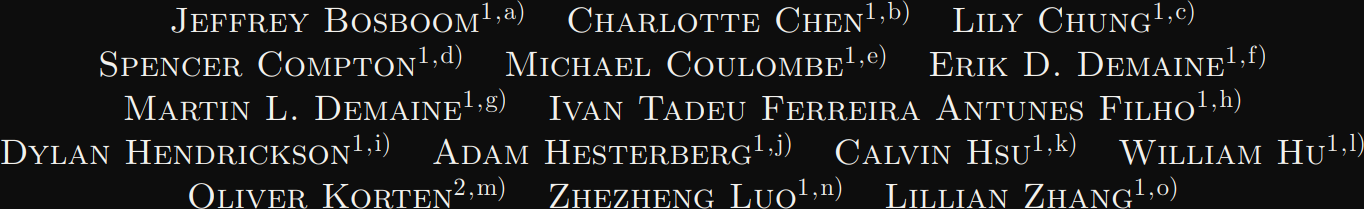
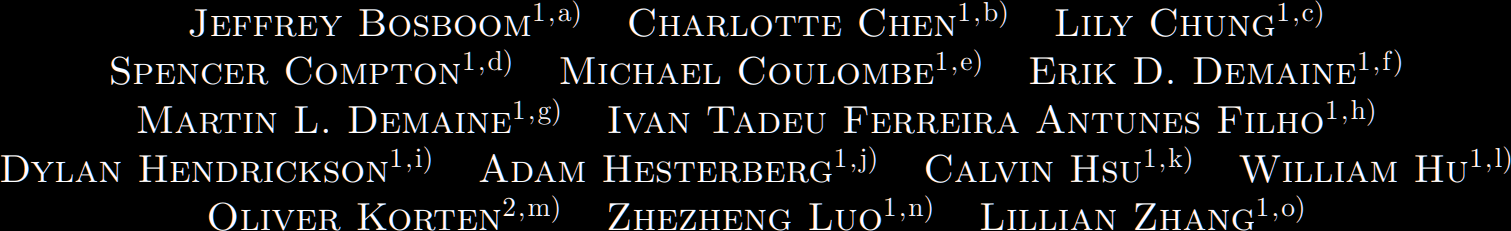
Update 2023-04-06T19:08:39.968Z

diff --git a/index.html b/index.html
@@ -35,10 +35,12 @@ h2 cite {
 cite.bracket::before {
   content: ' [';
   white-space: nowrap;
+  font-style: normal;
 }
 cite.bracket::after {
   content: ']';
   white-space: nowrap;
+  font-style: normal;
 }
 .columns {
   width: 100%;
@@ -229,7 +231,7 @@ span.space {
     opacity: var(--fade-max);
   }
 }
-</style></head><body><div class="reveal"><div class="slides"><section><h1 style="font-variant: small-caps">Every Author as<br>First Author</h1><hr><h2 class="r-stack"><div class="stack fragment fade-out" data-fragment-index="1" title="Erik Demaine; Martin Demaine"><div class="name">Erik Demaine</div><div class="name">Martin Demaine</div></div><div class="stack fragment fade-in" data-fragment-index="1" title="Erik Demaine; Martin Demaine"><div class="name a1o2">Erik Demaine</div><div class="name a2o2">Martin Demaine</div></div></h2><h3>M.I.T.</h3><hr><h4>SIGTBD 2023</h4></section><section><h2>The Problem: Authorship Order</h2><div class="columns v-top"><div class="column"><ul><li>Most common order: <b>decreasing significance</b></li><li>Difficult to measure</li><li>Uncomfortable conversations, arguments, feuds</li><li>What if contributions are roughly <b>equal</b>?</li></ul></div><div class="column"><a href="https://doi.org/10.1126/science.1058040"><img class="frame" src="figs/human-genome.jpg" width="1000" alt="Title page from the Human Genome Project paper" title="Title page from the Human Genome Project paper" style="margin-top:-0.25em !important"></a></div></div></section><section><h2>Alphabetical Order</h2><a href="https://doi.org/10.2197/ipsjjip.28.987"><img class="frame" width="1000" src="figs/alphabetical-15.png" alt="Our current record of 15 authors on a paper, in alphabetical order" title="Our current record of 15 authors on a paper, in alphabetical order"></a><ul><li>Make order <b>algorithmic</b> and thus <b>meaningless</b></li><li>Common in economics, mathematics, and theoretical computer science</li><li>Tenet of <b>supercollaboration</b><cite class="bracket autostack">Bosboom; Demaine; Demaine; Lynch 2018</cite>:<br>in brainstorming, ideas and failures are as important as successes</li><li>Guarantee contributions are fairly recognized without ever arguing who contributed what</li></ul></section><section><h2>Bias</h2><ul><li><b>Citations</b> in body of paper often “X et al. <cite class="bracket">#</cite>”<br>for numeric or “<cite>(X et al.)</cite>” for author/year, <br>which gives first author X unequal promotion<ul><li><u>Recommendation:</u> Write “X, Y, and Z <cite class="bracket">#</cite>”</li><li>Impractical for papers with &gt;10 authors</li></ul></li><li><b>Sorting</b> bibliographies alphabetically clusters more by first author, giving unequal promotion</li><li><i>Above are fundamental limitations of any order</i></li><li>Alphabetical order <b>judged</b> by fields with decreasing-contribution order</li></ul></section><section><h2>Alphabetical Discrimination</h2><ul><li>People with alphabetically earlier surnames are more likely to succeed academically<cite class="bracket autostack">Weber 2018</cite></li></ul><a class="r-stretch" href="https://doi.org/10.1093/reseval/rvy008" style="margin-top: 0.5em !important; display: block"><img class="frame" src="figs/weber-table.png" alt="Table 1 from Weber 2018, summarizing studies on alphabetical discrimination" title="Table 1 from Weber 2018, summarizing studies on alphabetical discrimination"></a></section><section data-transition="fade"><h2>Alternatives: Games</h2><ul><li>25-game croquet series<cite class="bracket autostack">Hassell; May 1974</cite></li><li>2-day backgammon contest<cite class="bracket autostack">Godley; May 1977</cite></li><li>Tennis match<cite class="bracket autostack">Griffiths; Anderson 1978</cite></li><li>Basketball free throws<cite class="bracket autostack">Fauth; Resetarits 1991</cite></li><li>Arm wrestling<cite class="bracket autostack">Shulman; Bermingham 1995</cite></li><li>Brownie bake-off<cite class="bracket autostack">Young; Young 1992</cite></li><li>A game of chicken<cite class="bracket autostack">Riechert; Hammerstein 1983</cite></li><li>Rock paper scissors<cite class="bracket autostack">Kupfer; Webbeking; Franklin 2004</cite></li></ul><div class="columns"><div class="column"><a href="https://twitter.com/AndyPurvisNHM/status/783326646464045057"><img class="invert frame" src="figs/publish-and-perish.jpg" width="800" style="padding:0px !important; margin-top: 0.2em !important" alt="Publish and perish: a quick way of resolving who gets to be first author"></a></div><div class="column fill" style="align-self: center"><a class="url" href="https://twitter.com/AndyPurvisNHM/status/783326646464045057">https://twitter.com/ AndyPurvisNHM/status/ 783326646464045057</a></div></div></section><section data-transition="fade"><h2>Alternatives: Randomness</h2><ul><li>Coin toss<cite class="bracket autostack">Miller; Ballard 1992</cite></li><li>Dice roll<cite class="bracket autostack">Mandle; Bufford; Schmidt; Daehler 2011</cite></li><li>Outcome of famous cricket games<cite class="bracket autostack">O’Hara; Kotze 2010</cite></li><li>Currency exchange rate fluctuation<br><cite class="bracket autostack">Feder; Mitchell-Olds 2003</cite></li></ul><div class="columns v-top"><div class="column fill"><ul><li>Dog treat consumption order<cite class="bracket autostack">Rochman; Brookson; Bikker; Djuric; Earn; Bucci; Athey; Huntington; McIlwraith; Munno; De  Frond; Kolomijeca; Erdle; Grbic; Bayoumi; Borrelle; Wu; Santoro; Werbowski; Zhu; Giles; Hamilton; Thaysen; Kaura; Klasios; Ead; Kim; Sherlock; Ho; Hung 2019</cite></li></ul><p><a class="url" href="https://twitter.com/ChelseaRochman/status/1110580954253484032">https://twitter.com/ChelseaRochman/ status/1110580954253484032</a></p></div><div class="column" style="margin-top:-1.25em"><a class="url" href="https://twitter.com/ChelseaRochman/status/1110580954253484032"><img class="my-0" width="600" src="figs/dog-treat.jpg"></a></div></div></section><section data-transition="fade"><h2>Alternatives: Authors</h2><ul><li>Height<cite class="bracket autostack">Marston; Jones; Woodward 2005</cite></li><li>Fertility<cite class="bracket autostack">Oliver; Babcock 1992</cite></li><li>Proximity to tenure<cite class="bracket autostack">Roderick; Gillespie 1998</cite></li><li>Reverse alphabetical order<br><cite class="bracket autostack">Zolensky; Zega; Yano; Wirick; Westphal; Weisberg; Weber; Warren; Velbel; Tsuchiyama; Tsou; Toppani; Tomioka; Tomeoka; Teslich; Taheri; Susini; Stroud; Stephan; Stadermann; Snead; Simon; Simionovici; See; Robert; Rietmeijer; Rao; Perronnet; Papanastassiou; Okudaira; Ohsumi; Ohnishi; Nakamura-Messenger; Nakamura; Mostefaoui; Mikouchi; Meibom; Matrajt; Marcus; Leroux; Lemelle; Le; Lanzirotti; Langenhorst; Krot; Keller; Kearsley; Joswiak; Jacob; Ishii; Harvey; Hagiya; Grossman; Grossman; Graham; Gounelle; Gillet; Genge; Flynn; Ferroir; Fallon; Ebel; Dai; Cordier; Clark; Chi; Butterworth; Brownlee; Bridges; Brennan; Brearley; Bradley; Bleuet; Bland; Bastien 2006</cite></li><li>Degree of belief in the paper's thesis<br><cite class="bracket autostack">Clark; Chalmers 1998</cite></li></ul></section><section><h2>Our Solution</h2><ul><li><b>New standard</b> for listing authors:<blockquote>Superimpose all author names on top of each other (<b>stack</b>)</blockquote></li><li><u>Example:</u><blockquote>Erik Demaine &amp; Martin Demaine →<div class="autostack">Erik Demaine; Martin Demaine</div></blockquote></li><li><b>Every author comes first!</b><p></p></li><li>Hybrid for inequal contributions: stack clusters of authors with equal contributions</li></ul></section><section><h2>Independent Discovery</h2><a href="https://floriantramer.com/docs/papers/Author_Ordership.pdf"><img class="frame" src="figs/tcizjncl-title.png"></a><a href="https://floriantramer.com/docs/papers/Author_Ordership.pdf"><img class="frame" src="figs/tcizjncl-figure.png"></a></section><section><h2>Opacity</h2><ul><li><div class="stack" title="Erik Demaine; Martin Demaine"><div class="name" style="opacity:1">Erik Demaine</div><div class="name" style="opacity:1">Martin Demaine</div></div><span class="ml-2">(opacity 1, no transparency)</span></li><li><div class="stack" title="Erik Demaine; Martin Demaine"><div class="name" style="opacity:0.75">Erik Demaine</div><div class="name" style="opacity:0.75">Martin Demaine</div></div><span class="ml-2">(opacity 3/4)</span></li><li><div class="stack" title="Erik Demaine; Martin Demaine"><div class="name" style="opacity:0.666">Erik Demaine</div><div class="name" style="opacity:0.666">Martin Demaine</div></div><span class="ml-2">(opacity 2/3)</span></li><li><div class="stack" title="Erik Demaine; Martin Demaine"><div class="name" style="opacity:0.5">Erik Demaine</div><div class="name" style="opacity:0.5">Martin Demaine</div></div><span class="ml-2">(opacity 1/2)</span><p></p></li><li>Opacity &lt; 1 reveals overlaps and density</li><li>For uniformity, we use opacity 2/3 for all authors</li><li><u>Future work:</u> Vary opacity by number of authors</li></ul></section><section><h2>Revealing the Names</h2><div class="columns"><div class="column"><div class="autostack">Erik Demaine; Martin Demaine 2023</div></div><div class="column space"></div><div class="column"><div class="autostack">J. C. Venter; M. D. Adams; E. W. Myers; P. W. Li; R. J. Mural; G. G. Sutton; H. O. Smith; M. Yandell; C. A. Evans; R. A. Holt; J. D. Gocayne; P. Amanatides; R. M. Ballew; D. H. Huson; J. R. Wortman; Q. Zhang; C. D. Kodira; X. H. Zheng; L. Chen; M. Skupski; G. Subramanian; P. D. Thomas; J. Zhang; G. L. G. Miklos; C. Nelson; S. Broder; A. G. Clark; J. Nadeau; V. A. McKusick; N. Zinder; A. J. Levine; R. J. Roberts; M. Simon; C. Slayman; M. Hunkapiller; R. Bolanos; A. Delcher; I. Dew; D. Fasulo; M. Flanigan; L. Florea; A. Halpern; S. Hannenhalli; S. Kravitz; S. Levy; C. Mobarry; K. Reinert; K. Remington; J. Abu-Threideh; E. Beasley; K. Biddick; V. Bonazzi; R. Brandon; M. Cargill; I. Chandramouliswaran; R. Charlab; K. Chaturvedi; Z. Deng; V. D. Francesco; P. Dunn; K. Eilbeck; C. Evangelista; A. E. Gabrielian; W. Gan; W. Ge; F. Gong; Z. Gu; P. Guan; T. J. Heiman; M. E. Higgins; R. R. Ji; Z. Ke; K. A. Ketchum; Z. Lai; Y. Lei; Z. Li; J. Li; Y. Liang; X. Lin; F. Lu; G. V. Merkulov; N. Milshina; H. M. Moore; A. K. Naik; V. A. Narayan; B. Neelam; D. Nusskern; D. B. Rusch; S. Salzberg; W. Shao; B. Shue; J. Sun; Z. Wang; A. Wang; X. Wang; J. Wang; M. Wei; R. Wides; C. Xiao; C. Yan; A. Yao; J. Ye; M. Zhan; W. Zhang; H. Zhang; Q. Zhao; L. Zheng; F. Zhong; W. Zhong; S. Zhu; S. Zhao; D. Gilbert; S. Baumhueter; G. Spier; C. Carter; A. Cravchik; T. Woodage; F. Ali; H. An; A. Awe; D. Baldwin; H. Baden; M. Barnstead; I. Barrow; K. Beeson; D. Busam; A. Carver; A. Center; M. L. Cheng; L. Curry; S. Danaher; L. Davenport; R. Desilets; S. Dietz; K. Dodson; L. Doup; S. Ferriera; N. Garg; A. Gluecksmann; B. Hart; J. Haynes; C. Haynes; C. Heiner; S. Hladun; D. Hostin; J. Houck; T. Howland; C. Ibegwam; J. Johnson; F. Kalush; L. Kline; S. Koduru; A. Love; F. Mann; D. May; S. McCawley; T. McIntosh; I. McMullen; M. Moy; L. Moy; B. Murphy; K. Nelson; C. Pfannkoch; E. Pratts; V. Puri; H. Qureshi; M. Reardon; R. Rodriguez; Y. H. Rogers; D. Romblad; B. Ruhfel; R. Scott; C. Sitter; M. Smallwood; E. Stewart; R. Strong; E. Suh; R. Thomas; N. N. Tint; S. Tse; C. Vech; G. Wang; J. Wetter; S. Williams; M. Williams; S. Windsor; E. Winn-Deen; K. Wolfe; J. Zaveri; K. Zaveri; J. F. Abril; R. Guigo; M. J. Campbell; K. V. Sjolander; B. Karlak; A. Kejariwal; H. Mi; B. Lazareva; T. Hatton; A. Narechania; K. Diemer; A. Muruganujan; N. Guo; S. Sato; V. Bafna; S. Istrail; R. Lippert; R. Schwartz; B. Walenz; S. Yooseph; D. Allen; A. Basu; J. Baxendale; L. Blick; M. Caminha; J. Carnes-Stine; P. Caulk; Y. H. Chiang; M. Coyne; C. Dahlke; A. D. Mays; M. Dombroski; M. Donnelly; D. Ely; S. Esparham; C. Fosler; H. Gire; S. Glanowski; K. Glasser; A. Glodek; M. Gorokhov; K. Graham; B. Gropman; M. Harris; J. Heil; S. Henderson; J. Hoover; D. Jennings; C. Jordan; J. Jordan; J. Kasha; L. Kagan; C. Kraft; A. Levitsky; M. Lewis; X. Liu; J. Lopez; D. Ma; W. Majoros; J. McDaniel; S. Murphy; M. Newman; T. Nguyen; N. Nguyen; M. Nodell; S. Pan; J. Peck; M. Peterson; W. Rowe; R. Sanders; J. Scott; M. Simpson; T. Smith; A. Sprague; T. Stockwell; R. Turner; E. Venter; M. Wang; M. Wen; D. Wu; M. Wu; A. Xia; A. Zandieh; X. Zhu 2006</div></div></div><p></p><ul><li>Hovering over names pops up original name list</li><li>Copy/paste results in original name list</li><li>Also in PDF compiled from LaTeX</li></ul><p></p><table style="font-size: 77%"><tr><th>PDF viewer</th><th>Hover tooltip</th><th>Copy/paste</th></tr><tr><td>Acrobat</td><td class="text-center">✓</td><td class="text-center">✓</td></tr><tr><td>Chrome</td><td class="text-center"> </td><td class="text-center">✓</td></tr><tr><td>Evince</td><td class="text-center">✓</td><td class="text-center">✓</td></tr><tr><td>Firefox</td><td class="text-center">✓</td><td class="text-center"> </td></tr><tr><td>Preview</td><td class="text-center"> </td><td class="text-center"> </td></tr><tr><td>VSCode</td><td class="text-center">✓</td><td class="text-center"> </td></tr></table></section><section><h2>Space Savings</h2><ul><li><b>Credit</b>: Papers with hundreds of authors never cited with all names, even in bibliography<ul><li><span class="autostack">J. C. Venter; M. D. Adams; E. W. Myers; P. W. Li; R. J. Mural; G. G. Sutton; H. O. Smith; M. Yandell; C. A. Evans; R. A. Holt; J. D. Gocayne; P. Amanatides; R. M. Ballew; D. H. Huson; J. R. Wortman; Q. Zhang; C. D. Kodira; X. H. Zheng; L. Chen; M. Skupski; G. Subramanian; P. D. Thomas; J. Zhang; G. L. G. Miklos; C. Nelson; S. Broder; A. G. Clark; J. Nadeau; V. A. McKusick; N. Zinder; A. J. Levine; R. J. Roberts; M. Simon; C. Slayman; M. Hunkapiller; R. Bolanos; A. Delcher; I. Dew; D. Fasulo; M. Flanigan; L. Florea; A. Halpern; S. Hannenhalli; S. Kravitz; S. Levy; C. Mobarry; K. Reinert; K. Remington; J. Abu-Threideh; E. Beasley; K. Biddick; V. Bonazzi; R. Brandon; M. Cargill; I. Chandramouliswaran; R. Charlab; K. Chaturvedi; Z. Deng; V. D. Francesco; P. Dunn; K. Eilbeck; C. Evangelista; A. E. Gabrielian; W. Gan; W. Ge; F. Gong; Z. Gu; P. Guan; T. J. Heiman; M. E. Higgins; R. R. Ji; Z. Ke; K. A. Ketchum; Z. Lai; Y. Lei; Z. Li; J. Li; Y. Liang; X. Lin; F. Lu; G. V. Merkulov; N. Milshina; H. M. Moore; A. K. Naik; V. A. Narayan; B. Neelam; D. Nusskern; D. B. Rusch; S. Salzberg; W. Shao; B. Shue; J. Sun; Z. Wang; A. Wang; X. Wang; J. Wang; M. Wei; R. Wides; C. Xiao; C. Yan; A. Yao; J. Ye; M. Zhan; W. Zhang; H. Zhang; Q. Zhao; L. Zheng; F. Zhong; W. Zhong; S. Zhu; S. Zhao; D. Gilbert; S. Baumhueter; G. Spier; C. Carter; A. Cravchik; T. Woodage; F. Ali; H. An; A. Awe; D. Baldwin; H. Baden; M. Barnstead; I. Barrow; K. Beeson; D. Busam; A. Carver; A. Center; M. L. Cheng; L. Curry; S. Danaher; L. Davenport; R. Desilets; S. Dietz; K. Dodson; L. Doup; S. Ferriera; N. Garg; A. Gluecksmann; B. Hart; J. Haynes; C. Haynes; C. Heiner; S. Hladun; D. Hostin; J. Houck; T. Howland; C. Ibegwam; J. Johnson; F. Kalush; L. Kline; S. Koduru; A. Love; F. Mann; D. May; S. McCawley; T. McIntosh; I. McMullen; M. Moy; L. Moy; B. Murphy; K. Nelson; C. Pfannkoch; E. Pratts; V. Puri; H. Qureshi; M. Reardon; R. Rodriguez; Y. H. Rogers; D. Romblad; B. Ruhfel; R. Scott; C. Sitter; M. Smallwood; E. Stewart; R. Strong; E. Suh; R. Thomas; N. N. Tint; S. Tse; C. Vech; G. Wang; J. Wetter; S. Williams; M. Williams; S. Windsor; E. Winn-Deen; K. Wolfe; J. Zaveri; K. Zaveri; J. F. Abril; R. Guigo; M. J. Campbell; K. V. Sjolander; B. Karlak; A. Kejariwal; H. Mi; B. Lazareva; T. Hatton; A. Narechania; K. Diemer; A. Muruganujan; N. Guo; S. Sato; V. Bafna; S. Istrail; R. Lippert; R. Schwartz; B. Walenz; S. Yooseph; D. Allen; A. Basu; J. Baxendale; L. Blick; M. Caminha; J. Carnes-Stine; P. Caulk; Y. H. Chiang; M. Coyne; C. Dahlke; A. D. Mays; M. Dombroski; M. Donnelly; D. Ely; S. Esparham; C. Fosler; H. Gire; S. Glanowski; K. Glasser; A. Glodek; M. Gorokhov; K. Graham; B. Gropman; M. Harris; J. Heil; S. Henderson; J. Hoover; D. Jennings; C. Jordan; J. Jordan; J. Kasha; L. Kagan; C. Kraft; A. Levitsky; M. Lewis; X. Liu; J. Lopez; D. Ma; W. Majoros; J. McDaniel; S. Murphy; M. Newman; T. Nguyen; N. Nguyen; M. Nodell; S. Pan; J. Peck; M. Peterson; W. Rowe; R. Sanders; J. Scott; M. Simpson; T. Smith; A. Sprague; T. Stockwell; R. Turner; E. Venter; M. Wang; M. Wen; D. Wu; M. Wu; A. Xia; A. Zandieh; X. Zhu</span><span>(274)</span><span class="ml-2">vs.</span><span class="ml-2">half a page</span></li></ul></li><li><b>Fairness</b>: Papers with varying number of authors occupy similar space in bibliography</li><li><b>Effort</b>: Easier to meet page limits</li><li><b>Efficiency</b>: Less paper and ink</li></ul></section><section><h2>Technology: LaTeX</h2><ul><li><code><span class="keyword">\namestack</span>{Erik Demaine; Martin Demaine}</code><br>→ <code><span class="keyword">\vbox</span>{<span class="keyword">\hbox</span>{Erik Demaine}<span class="keyword">\vskip</span></code><br><code>&nbsp;&nbsp;&nbsp;-<span class="keyword">\baselineskip</span><span class="keyword">\hbox</span>{Martin Demaine}}</code><br>→<span class="ml-2 autostack">Erik Demaine; Martin Demaine</span><p></p></li><li>Plus:<ul><li>Hover tooltip</li><li>Copy/paste</li></ul><p></p></li><li>Source code: <div class="r-fit-text"><a href="https://github.com/edemaine/author-stack-paper">https://github.com/edemaine/author-stack-paper</a></div></li></ul></section><section><h2>Technology: BibTeX</h2><ul><li><code>stack-abbrvnat.bst</code> bibliography style</li><li><code>author</code> automatically stacked in bibliography and <code>natbib.sty</code> author/year citation<p></p></li></ul><img class="frame" src="figs/bibliography-sample.png" style="width: 1050px; max-width: 1050px"><ul><li>Source code: <div class="r-fit-text"><a href="https://github.com/edemaine/author-stack-paper">https://github.com/edemaine/author-stack-paper</a></div></li></ul></section><section><h2>Technology: HTML</h2><ul><li><code>&lt;<span class="keyword">span</span> <span class="keyword">class</span>="autostack"&gt;Erik Demaine;</code><br><code>&nbsp;&nbsp;Martin Demaine&lt;/<span class="keyword">span</span>&gt;</code><span class="ml-2">→</span><br><code>&lt;<span class="keyword">span</span> <span class="keyword">class</span>="stack" <span class="keyword">title</span>="Erik Dem..."&gt;</code><br><code>&nbsp;&nbsp;&lt;<span class="keyword">span</span> <span class="keyword">class</span>="name"&gt;Erik Demaine&lt;/<span class="keyword">span</span>&gt;</code><br><code>&nbsp;&nbsp;&lt;<span class="keyword">span</span> <span class="keyword">class</span>="semi"&gt;;&lt;/<span class="keyword">span</span>&gt;</code><br><code>&nbsp;&nbsp;&lt;<span class="keyword">span</span> <span class="keyword">class</span>="name"&gt;Martin Dem..&lt;/<span class="keyword">span</span>&gt;</code><br><code>&lt;/<span class="keyword">span</span>&gt;</code><span class="ml-2">→</span><span class="ml-2 autostack">Erik Demaine; Martin Demaine</span><p></p></li><li>CSS Grid with repeated cells: <code><span class="keyword">display</span>: inline-grid;</code><code><span class="keyword">grid-row</span>: 1; </code><code><span class="keyword">grid-column</span>: 1;</code></li><li>Source code: <div class="r-fit-text"><a href="https://github.com/edemaine/author-stack-talk">https://github.com/edemaine/author-stack-talk</a></div></li></ul></section><section><h2>Future Work: Readability</h2><ul><li><cite class="autostack">Bosboom; Chen; Chung; Compton; Coulombe; Demaine; Demaine; Filho; Hendrickson; Hesterberg; Hsu; Hu; Korten; Luo; Zhang 2020</cite> is hard to read</li><li>One approach: <b>Circle</b> has no first author</li></ul><img src="figs/circle.png"></section><section><h2>Round-Robin Documents</h2><div class="columns"><div class="column fill"><ul><li>Signed by authors (such as mutineer sailors) in a circle to prevent identifying ringleader<p></p></li></ul><a class="url" href="https://en.wikipedia.org/wiki/Round-robin_(document)">https://en.wikipedia.org/wiki/Round-robin_(document)</a></div><div class="column"><a href="https://en.wikipedia.org/wiki/Round-robin_(document)"><img src="figs/round-robin.jpg" style="margin-top:-0.5em"></a></div></div></section><section><h1 style="font-variant: small-caps">Every Author as<br>First Author</h1><hr><h2><div class="stack fade-in" title="Erik Demaine; Martin Demaine"><div class="name a1o2">Erik Demaine</div><div class="name a2o2">Martin Demaine</div></div></h2><h3>M.I.T.</h3><hr><h4>SIGTBD 2023</h4></section></div></div><script>(function() {
+</style></head><body><div class="reveal"><div class="slides"><section><h1 style="font-variant: small-caps">Every Author as<br>First Author</h1><hr><h2 class="r-stack"><div class="stack fragment fade-out" data-fragment-index="1" title="Erik Demaine; Martin Demaine"><div class="name">Erik Demaine</div><div class="name">Martin Demaine</div></div><div class="stack fragment fade-in" data-fragment-index="1" title="Erik Demaine; Martin Demaine"><div class="name a1o2">Erik Demaine</div><div class="name a2o2">Martin Demaine</div></div></h2><h3>M.I.T.</h3><hr><h4>SIGTBD 2023</h4></section><section><h2>The Problem: Authorship Order</h2><div class="columns v-top"><div class="column"><ul><li>Most common order: <b>decreasing significance</b><p></p></li><li>Difficult to measure<p></p></li><li>Uncomfortable conversations, arguments, feuds<p></p></li><li>What if contributions are roughly <b>equal</b>?</li></ul></div><div class="column"><a href="https://doi.org/10.1126/science.1058040"><img class="frame" src="figs/human-genome.jpg" width="1000" alt="Title page from the Human Genome Project paper" title="Title page from the Human Genome Project paper" style="margin-top:-0.25em !important"></a></div></div></section><section><h2>Alphabetical Order</h2><a href="https://doi.org/10.2197/ipsjjip.28.987"><img class="frame" width="1000" src="figs/alphabetical-15.png" alt="Our current record of 15 authors on a paper, in alphabetical order" title="Our current record of 15 authors on a paper, in alphabetical order"></a><ul><li>Make order <b>algorithmic</b> and thus <b>meaningless</b></li><li>Common in economics, mathematics, and theoretical computer science</li><li>Tenet of <b>supercollaboration</b><cite class="bracket autostack">Bosboom; Demaine; Demaine; Lynch 2018</cite>:<br>in brainstorming, ideas and failures are as important as successes</li><li>Guarantee contributions are fairly recognized without ever arguing who contributed what</li></ul></section><section><h2>Bias</h2><ul><li><b>Citations</b> in body of paper often “X et al. <cite class="bracket">#</cite>”<br>for numeric or “<cite>(X et al.)</cite>” for author/year, <br>which gives first author X unequal promotion<ul><li><u>Recommendation:</u> Write “X, Y, and Z <cite class="bracket">#</cite>”</li><li>Impractical for papers with &gt;10 authors</li></ul><p></p></li><li><b>Sorting</b> bibliographies alphabetically clusters more by first author, giving unequal promotion<p></p></li><li><i>Above are fundamental limitations of any order</i><p></p></li><li>Alphabetical order <b>judged</b> by fields with decreasing-contribution order</li></ul></section><section><h2>Alphabetical Discrimination</h2><ul><li>People with alphabetically earlier surnames are more likely to succeed academically<cite class="bracket autostack">Weber 2018</cite></li></ul><a class="r-stretch" href="https://doi.org/10.1093/reseval/rvy008" style="margin-top: 0.5em !important; display: block"><img class="frame" src="figs/weber-table.png" alt="Table 1 from Weber 2018, summarizing studies on alphabetical discrimination" title="Table 1 from Weber 2018, summarizing studies on alphabetical discrimination"></a></section><section><h2>Alternatives: Games</h2><ul><li>25-game croquet series<cite class="bracket autostack">Hassell; May 1974</cite></li><li>2-day backgammon contest<cite class="bracket autostack">Godley; May 1977</cite></li><li>Tennis match<cite class="bracket autostack">Griffiths; Anderson 1978</cite></li><li>Basketball free throws<cite class="bracket autostack">Fauth; Resetarits 1991</cite></li><li>Arm wrestling<cite class="bracket autostack">Shulman; Bermingham 1995</cite></li><li>Brownie bake-off<cite class="bracket autostack">Young; Young 1992</cite></li><li>A game of chicken<cite class="bracket autostack">Riechert; Hammerstein 1983</cite></li><li>Rock paper scissors<cite class="bracket autostack">Kupfer; Webbeking; Franklin 2004</cite></li></ul><div class="columns"><div class="column"><a href="https://twitter.com/AndyPurvisNHM/status/783326646464045057"><img class="invert frame" src="figs/publish-and-perish.jpg" width="800" style="padding:0px !important; margin-top: 0.2em !important" alt="Publish and perish: a quick way of resolving who gets to be first author"></a></div><div class="column fill" style="align-self: center"><a class="url" href="https://twitter.com/AndyPurvisNHM/status/783326646464045057">https://twitter.com/ AndyPurvisNHM/status/ 783326646464045057</a></div></div></section><section><h2>Alternatives: Randomness</h2><ul><li>Coin toss<cite class="bracket autostack">Miller; Ballard 1992</cite></li><li>Dice roll<cite class="bracket autostack">Mandle; Bufford; Schmidt; Daehler 2011</cite></li><li>Outcome of famous cricket games<cite class="bracket autostack">O’Hara; Kotze 2010</cite></li><li>Currency exchange rate fluctuation<br><cite class="bracket autostack">Feder; Mitchell-Olds 2003</cite></li></ul><div class="columns v-top"><div class="column fill"><ul><li>Dog treat consumption order<cite class="bracket autostack">Rochman; Brookson; Bikker; Djuric; Earn; Bucci; Athey; Huntington; McIlwraith; Munno; De  Frond; Kolomijeca; Erdle; Grbic; Bayoumi; Borrelle; Wu; Santoro; Werbowski; Zhu; Giles; Hamilton; Thaysen; Kaura; Klasios; Ead; Kim; Sherlock; Ho; Hung 2019</cite></li></ul><p><a class="url" href="https://twitter.com/ChelseaRochman/status/1110580954253484032">https://twitter.com/ChelseaRochman/ status/1110580954253484032</a></p></div><div class="column" style="margin-top:-1.25em"><a class="url" href="https://twitter.com/ChelseaRochman/status/1110580954253484032"><img class="my-0" width="600" src="figs/dog-treat.jpg"></a></div></div></section><section><h2>Alternatives: Authors</h2><ul><li>Height<cite class="bracket autostack">Marston; Jones; Woodward 2005</cite></li><li>Fertility<cite class="bracket autostack">Oliver; Babcock 1992</cite></li><li>Proximity to tenure<cite class="bracket autostack">Roderick; Gillespie 1998</cite></li><li>Reverse alphabetical order<br><cite class="bracket autostack">Zolensky; Zega; Yano; Wirick; Westphal; Weisberg; Weber; Warren; Velbel; Tsuchiyama; Tsou; Toppani; Tomioka; Tomeoka; Teslich; Taheri; Susini; Stroud; Stephan; Stadermann; Snead; Simon; Simionovici; See; Robert; Rietmeijer; Rao; Perronnet; Papanastassiou; Okudaira; Ohsumi; Ohnishi; Nakamura-Messenger; Nakamura; Mostefaoui; Mikouchi; Meibom; Matrajt; Marcus; Leroux; Lemelle; Le; Lanzirotti; Langenhorst; Krot; Keller; Kearsley; Joswiak; Jacob; Ishii; Harvey; Hagiya; Grossman; Grossman; Graham; Gounelle; Gillet; Genge; Flynn; Ferroir; Fallon; Ebel; Dai; Cordier; Clark; Chi; Butterworth; Brownlee; Bridges; Brennan; Brearley; Bradley; Bleuet; Bland; Bastien 2006</cite></li><li>Degree of belief in the paper’s thesis<br><cite class="bracket autostack">Clark; Chalmers 1998</cite></li></ul></section><section><h2>Our Solution</h2><ul><li><b>New standard</b> for listing authors:<blockquote>Superimpose all author names on top of each other (<b>stack</b>)</blockquote></li><li><u>Example:</u><blockquote>Erik Demaine &amp; Martin Demaine →<div class="autostack">Erik Demaine; Martin Demaine</div></blockquote></li><li><b>Every author comes first!</b><p></p></li><li>Hybrid for inequal contributions: stack clusters of authors with equal contributions</li></ul></section><section><h2>Independent Discovery</h2><a href="https://floriantramer.com/docs/papers/Author_Ordership.pdf"><img class="frame" src="figs/tcizjncl-title.png"></a><a href="https://floriantramer.com/docs/papers/Author_Ordership.pdf"><img class="frame" src="figs/tcizjncl-figure.png"></a></section><section><h2>Opacity</h2><ul><li><div class="stack" title="Erik Demaine; Martin Demaine"><div class="name" style="opacity:1">Erik Demaine</div><div class="name" style="opacity:1">Martin Demaine</div></div><span class="ml-2">(opacity 1, no transparency)</span></li><li><div class="stack" title="Erik Demaine; Martin Demaine"><div class="name" style="opacity:0.75">Erik Demaine</div><div class="name" style="opacity:0.75">Martin Demaine</div></div><span class="ml-2">(opacity 3/4)</span></li><li><div class="stack" title="Erik Demaine; Martin Demaine"><div class="name" style="opacity:0.666">Erik Demaine</div><div class="name" style="opacity:0.666">Martin Demaine</div></div><span class="ml-2">(opacity 2/3)</span></li><li><div class="stack" title="Erik Demaine; Martin Demaine"><div class="name" style="opacity:0.5">Erik Demaine</div><div class="name" style="opacity:0.5">Martin Demaine</div></div><span class="ml-2">(opacity 1/2)</span><p></p></li><li>Opacity &lt; 1 reveals overlaps and density</li><li>For uniformity, we use opacity 2/3 for all authors</li><li><u>Future work:</u> Vary opacity by number of authors</li></ul></section><section><h2>Revealing the Names</h2><div class="columns"><div class="column"><div class="autostack">Erik Demaine; Martin Demaine 2023</div></div><div class="column space"></div><div class="column"><div class="autostack">J. C. Venter; M. D. Adams; E. W. Myers; P. W. Li; R. J. Mural; G. G. Sutton; H. O. Smith; M. Yandell; C. A. Evans; R. A. Holt; J. D. Gocayne; P. Amanatides; R. M. Ballew; D. H. Huson; J. R. Wortman; Q. Zhang; C. D. Kodira; X. H. Zheng; L. Chen; M. Skupski; G. Subramanian; P. D. Thomas; J. Zhang; G. L. G. Miklos; C. Nelson; S. Broder; A. G. Clark; J. Nadeau; V. A. McKusick; N. Zinder; A. J. Levine; R. J. Roberts; M. Simon; C. Slayman; M. Hunkapiller; R. Bolanos; A. Delcher; I. Dew; D. Fasulo; M. Flanigan; L. Florea; A. Halpern; S. Hannenhalli; S. Kravitz; S. Levy; C. Mobarry; K. Reinert; K. Remington; J. Abu-Threideh; E. Beasley; K. Biddick; V. Bonazzi; R. Brandon; M. Cargill; I. Chandramouliswaran; R. Charlab; K. Chaturvedi; Z. Deng; V. D. Francesco; P. Dunn; K. Eilbeck; C. Evangelista; A. E. Gabrielian; W. Gan; W. Ge; F. Gong; Z. Gu; P. Guan; T. J. Heiman; M. E. Higgins; R. R. Ji; Z. Ke; K. A. Ketchum; Z. Lai; Y. Lei; Z. Li; J. Li; Y. Liang; X. Lin; F. Lu; G. V. Merkulov; N. Milshina; H. M. Moore; A. K. Naik; V. A. Narayan; B. Neelam; D. Nusskern; D. B. Rusch; S. Salzberg; W. Shao; B. Shue; J. Sun; Z. Wang; A. Wang; X. Wang; J. Wang; M. Wei; R. Wides; C. Xiao; C. Yan; A. Yao; J. Ye; M. Zhan; W. Zhang; H. Zhang; Q. Zhao; L. Zheng; F. Zhong; W. Zhong; S. Zhu; S. Zhao; D. Gilbert; S. Baumhueter; G. Spier; C. Carter; A. Cravchik; T. Woodage; F. Ali; H. An; A. Awe; D. Baldwin; H. Baden; M. Barnstead; I. Barrow; K. Beeson; D. Busam; A. Carver; A. Center; M. L. Cheng; L. Curry; S. Danaher; L. Davenport; R. Desilets; S. Dietz; K. Dodson; L. Doup; S. Ferriera; N. Garg; A. Gluecksmann; B. Hart; J. Haynes; C. Haynes; C. Heiner; S. Hladun; D. Hostin; J. Houck; T. Howland; C. Ibegwam; J. Johnson; F. Kalush; L. Kline; S. Koduru; A. Love; F. Mann; D. May; S. McCawley; T. McIntosh; I. McMullen; M. Moy; L. Moy; B. Murphy; K. Nelson; C. Pfannkoch; E. Pratts; V. Puri; H. Qureshi; M. Reardon; R. Rodriguez; Y. H. Rogers; D. Romblad; B. Ruhfel; R. Scott; C. Sitter; M. Smallwood; E. Stewart; R. Strong; E. Suh; R. Thomas; N. N. Tint; S. Tse; C. Vech; G. Wang; J. Wetter; S. Williams; M. Williams; S. Windsor; E. Winn-Deen; K. Wolfe; J. Zaveri; K. Zaveri; J. F. Abril; R. Guigo; M. J. Campbell; K. V. Sjolander; B. Karlak; A. Kejariwal; H. Mi; B. Lazareva; T. Hatton; A. Narechania; K. Diemer; A. Muruganujan; N. Guo; S. Sato; V. Bafna; S. Istrail; R. Lippert; R. Schwartz; B. Walenz; S. Yooseph; D. Allen; A. Basu; J. Baxendale; L. Blick; M. Caminha; J. Carnes-Stine; P. Caulk; Y. H. Chiang; M. Coyne; C. Dahlke; A. D. Mays; M. Dombroski; M. Donnelly; D. Ely; S. Esparham; C. Fosler; H. Gire; S. Glanowski; K. Glasser; A. Glodek; M. Gorokhov; K. Graham; B. Gropman; M. Harris; J. Heil; S. Henderson; J. Hoover; D. Jennings; C. Jordan; J. Jordan; J. Kasha; L. Kagan; C. Kraft; A. Levitsky; M. Lewis; X. Liu; J. Lopez; D. Ma; W. Majoros; J. McDaniel; S. Murphy; M. Newman; T. Nguyen; N. Nguyen; M. Nodell; S. Pan; J. Peck; M. Peterson; W. Rowe; R. Sanders; J. Scott; M. Simpson; T. Smith; A. Sprague; T. Stockwell; R. Turner; E. Venter; M. Wang; M. Wen; D. Wu; M. Wu; A. Xia; A. Zandieh; X. Zhu 2006</div></div></div><p></p><ul><li>Hovering over names pops up original name list</li><li>Copy/paste results in original name list</li><li>Also in PDF compiled from LaTeX</li></ul><p></p><table style="font-size: 77%"><tr><th>PDF viewer</th><th>Hover tooltip</th><th>Copy/paste</th></tr><tr><td>Acrobat</td><td class="text-center">✓</td><td class="text-center">✓</td></tr><tr><td>Chrome</td><td class="text-center"> </td><td class="text-center">✓</td></tr><tr><td>Evince</td><td class="text-center">✓</td><td class="text-center">✓</td></tr><tr><td>Firefox</td><td class="text-center">✓</td><td class="text-center"> </td></tr><tr><td>Preview</td><td class="text-center"> </td><td class="text-center"> </td></tr><tr><td>VSCode</td><td class="text-center">✓</td><td class="text-center"> </td></tr></table></section><section><h2>Space Savings</h2><ul><li><b>Credit</b>: Papers with hundreds of authors never cited with all names, even in bibliography<ul><li><span class="autostack">J. C. Venter; M. D. Adams; E. W. Myers; P. W. Li; R. J. Mural; G. G. Sutton; H. O. Smith; M. Yandell; C. A. Evans; R. A. Holt; J. D. Gocayne; P. Amanatides; R. M. Ballew; D. H. Huson; J. R. Wortman; Q. Zhang; C. D. Kodira; X. H. Zheng; L. Chen; M. Skupski; G. Subramanian; P. D. Thomas; J. Zhang; G. L. G. Miklos; C. Nelson; S. Broder; A. G. Clark; J. Nadeau; V. A. McKusick; N. Zinder; A. J. Levine; R. J. Roberts; M. Simon; C. Slayman; M. Hunkapiller; R. Bolanos; A. Delcher; I. Dew; D. Fasulo; M. Flanigan; L. Florea; A. Halpern; S. Hannenhalli; S. Kravitz; S. Levy; C. Mobarry; K. Reinert; K. Remington; J. Abu-Threideh; E. Beasley; K. Biddick; V. Bonazzi; R. Brandon; M. Cargill; I. Chandramouliswaran; R. Charlab; K. Chaturvedi; Z. Deng; V. D. Francesco; P. Dunn; K. Eilbeck; C. Evangelista; A. E. Gabrielian; W. Gan; W. Ge; F. Gong; Z. Gu; P. Guan; T. J. Heiman; M. E. Higgins; R. R. Ji; Z. Ke; K. A. Ketchum; Z. Lai; Y. Lei; Z. Li; J. Li; Y. Liang; X. Lin; F. Lu; G. V. Merkulov; N. Milshina; H. M. Moore; A. K. Naik; V. A. Narayan; B. Neelam; D. Nusskern; D. B. Rusch; S. Salzberg; W. Shao; B. Shue; J. Sun; Z. Wang; A. Wang; X. Wang; J. Wang; M. Wei; R. Wides; C. Xiao; C. Yan; A. Yao; J. Ye; M. Zhan; W. Zhang; H. Zhang; Q. Zhao; L. Zheng; F. Zhong; W. Zhong; S. Zhu; S. Zhao; D. Gilbert; S. Baumhueter; G. Spier; C. Carter; A. Cravchik; T. Woodage; F. Ali; H. An; A. Awe; D. Baldwin; H. Baden; M. Barnstead; I. Barrow; K. Beeson; D. Busam; A. Carver; A. Center; M. L. Cheng; L. Curry; S. Danaher; L. Davenport; R. Desilets; S. Dietz; K. Dodson; L. Doup; S. Ferriera; N. Garg; A. Gluecksmann; B. Hart; J. Haynes; C. Haynes; C. Heiner; S. Hladun; D. Hostin; J. Houck; T. Howland; C. Ibegwam; J. Johnson; F. Kalush; L. Kline; S. Koduru; A. Love; F. Mann; D. May; S. McCawley; T. McIntosh; I. McMullen; M. Moy; L. Moy; B. Murphy; K. Nelson; C. Pfannkoch; E. Pratts; V. Puri; H. Qureshi; M. Reardon; R. Rodriguez; Y. H. Rogers; D. Romblad; B. Ruhfel; R. Scott; C. Sitter; M. Smallwood; E. Stewart; R. Strong; E. Suh; R. Thomas; N. N. Tint; S. Tse; C. Vech; G. Wang; J. Wetter; S. Williams; M. Williams; S. Windsor; E. Winn-Deen; K. Wolfe; J. Zaveri; K. Zaveri; J. F. Abril; R. Guigo; M. J. Campbell; K. V. Sjolander; B. Karlak; A. Kejariwal; H. Mi; B. Lazareva; T. Hatton; A. Narechania; K. Diemer; A. Muruganujan; N. Guo; S. Sato; V. Bafna; S. Istrail; R. Lippert; R. Schwartz; B. Walenz; S. Yooseph; D. Allen; A. Basu; J. Baxendale; L. Blick; M. Caminha; J. Carnes-Stine; P. Caulk; Y. H. Chiang; M. Coyne; C. Dahlke; A. D. Mays; M. Dombroski; M. Donnelly; D. Ely; S. Esparham; C. Fosler; H. Gire; S. Glanowski; K. Glasser; A. Glodek; M. Gorokhov; K. Graham; B. Gropman; M. Harris; J. Heil; S. Henderson; J. Hoover; D. Jennings; C. Jordan; J. Jordan; J. Kasha; L. Kagan; C. Kraft; A. Levitsky; M. Lewis; X. Liu; J. Lopez; D. Ma; W. Majoros; J. McDaniel; S. Murphy; M. Newman; T. Nguyen; N. Nguyen; M. Nodell; S. Pan; J. Peck; M. Peterson; W. Rowe; R. Sanders; J. Scott; M. Simpson; T. Smith; A. Sprague; T. Stockwell; R. Turner; E. Venter; M. Wang; M. Wen; D. Wu; M. Wu; A. Xia; A. Zandieh; X. Zhu</span><span>(274)</span><span class="ml-2">vs.</span><span class="ml-2">half a page</span></li></ul></li><li><b>Fairness</b>: Papers with varying number of authors occupy similar space in bibliography<img class="frame" src="figs/bibliography-sample.png"></li></ul><ul><li><b>Effort</b>: Easier to meet page limits</li><li><b>Efficiency</b>: Less paper and ink</li></ul></section><section><h2>Technology: LaTeX</h2><ul><li><code><span class="keyword">\namestack</span>{Erik Demaine; Martin Demaine}</code><br>→ <code><span class="keyword">\vbox</span>{<span class="keyword">\hbox</span>{Erik Demaine}<span class="keyword">\vskip</span></code><br><code>&nbsp;&nbsp;&nbsp;&nbsp;-<span class="keyword">\baselineskip</span><span class="keyword">\hbox</span>{Martin Demaine}}</code><br>→<span class="ml-2 autostack">Erik Demaine; Martin Demaine</span><p></p></li><li>Plus:<ul><li>Hover tooltip</li><li>Copy/paste</li></ul><p></p></li><li>Source code: <div class="r-fit-text"><a href="https://github.com/edemaine/author-stack-paper">https://github.com/edemaine/author-stack-paper</a></div></li></ul></section><section><h2>Technology: BibTeX</h2><ul><li><code>stack-abbrvnat.bst</code> bibliography style</li><li><code>author</code> automatically stacked in bibliography and <code>natbib.sty</code> author/year citation<p></p></li></ul><img class="frame" src="figs/bibliography-sample.png" style="width: 1050px; max-width: 1050px"><ul><li>Source code: <div class="r-fit-text"><a href="https://github.com/edemaine/author-stack-paper">https://github.com/edemaine/author-stack-paper</a></div></li></ul></section><section><h2>Technology: HTML</h2><ul><li><code>&lt;<span class="keyword">span</span> <span class="keyword">class</span>="autostack"&gt;Erik Demaine;</code><br><code>&nbsp;&nbsp;Martin Demaine&lt;/<span class="keyword">span</span>&gt;</code><span class="ml-2">→</span><br><code>&lt;<span class="keyword">span</span> <span class="keyword">class</span>="stack" <span class="keyword">title</span>="Erik Dem..."&gt;</code><br><code>&nbsp;&nbsp;&lt;<span class="keyword">span</span> <span class="keyword">class</span>="name"&gt;Erik Demaine&lt;/<span class="keyword">span</span>&gt;</code><br><code>&nbsp;&nbsp;&lt;<span class="keyword">span</span> <span class="keyword">class</span>="semi"&gt;;&lt;/<span class="keyword">span</span>&gt;</code><br><code>&nbsp;&nbsp;&lt;<span class="keyword">span</span> <span class="keyword">class</span>="name"&gt;Martin Dem..&lt;/<span class="keyword">span</span>&gt;</code><br><code>&lt;/<span class="keyword">span</span>&gt;</code><span class="ml-2">→</span><span class="ml-2 autostack">Erik Demaine; Martin Demaine</span><p></p></li><li>CSS Grid (<code><span class="keyword">display</span>: inline-grid</code>) with<br>repeated cells (<code><span class="keyword">grid-row</span>: 1; </code><code><span class="keyword">grid-column</span>: 1</code>)<p></p></li><li>Source code: <div class="r-fit-text"><a href="https://github.com/edemaine/author-stack-talk">https://github.com/edemaine/author-stack-talk</a></div></li></ul></section><section><h2>Future Work: Readability</h2><ul><li><cite class="autostack">Bosboom; Chen; Chung; Compton; Coulombe; Demaine; Demaine; Filho; Hendrickson; Hesterberg; Hsu; Hu; Korten; Luo; Zhang 2020</cite> is hard to read</li><li>One approach: <b>Circle</b> has no first author</li></ul><img src="figs/circle.png"></section><section><h2>Round-Robin Documents</h2><div class="columns"><div class="column fill"><ul><li>Signed by authors (such as mutineer sailors) in a circle to prevent identifying ringleader<p></p></li></ul><a class="url" href="https://en.wikipedia.org/wiki/Round-robin_(document)">https://en.wikipedia.org/wiki/Round-robin_(document)</a></div><div class="column"><a href="https://en.wikipedia.org/wiki/Round-robin_(document)"><img src="figs/round-robin.jpg" style="margin-top:-0.5em"></a></div></div></section><section><h1 style="font-variant: small-caps">Every Author as<br>First Author</h1><hr><h2><div class="stack fade-in" title="Erik Demaine; Martin Demaine"><div class="name a1o2">Erik Demaine</div><div class="name a2o2">Martin Demaine</div></div></h2><h3>M.I.T.</h3><hr><h4>SIGTBD 2023</h4></section></div></div><script>(function() {
   Reveal.initialize({
     center: false,
     slideNumber: true,

diff --git a/stack.js b/stack.js
@@ -1,20 +1,23 @@
 (function() {
   document.querySelectorAll('.autostack').forEach((elt) => {
-    var i, match, name, names, year;
+    var i, match, name, names, split, year;
     //console.log elt
     [match, names, year] = elt.innerText.match(/^\s*([^\d]+)(?:\s+(\d+))?\s*$/);
-    return elt.innerHTML = `<div class="stack" title="${names}">
+    if (year == null) {
+      year = '';
+    }
+    split = names.split(/\s*;\s*/g);
+    return elt.innerHTML = `<div class="stack" title="${names} (${split.length}) ${year}">
 ${((function() {
-      var j, len, ref, results;
-      ref = names.split(/\s*;\s*/g);
+      var j, len, results;
       results = [];
-      for (i = j = 0, len = ref.length; j < len; i = ++j) {
-        name = ref[i];
+      for (i = j = 0, len = split.length; j < len; i = ++j) {
+        name = split[i];
         results.push((i ? '<div class="semi">;</div>' : '') + `<div class="name">${name}</div>`);
       }
       return results;
     })()).join('\n')}
-</div> ${year != null ? year : ''}`;
+</div> ${year}`;
   });
 
 }).call(this);
